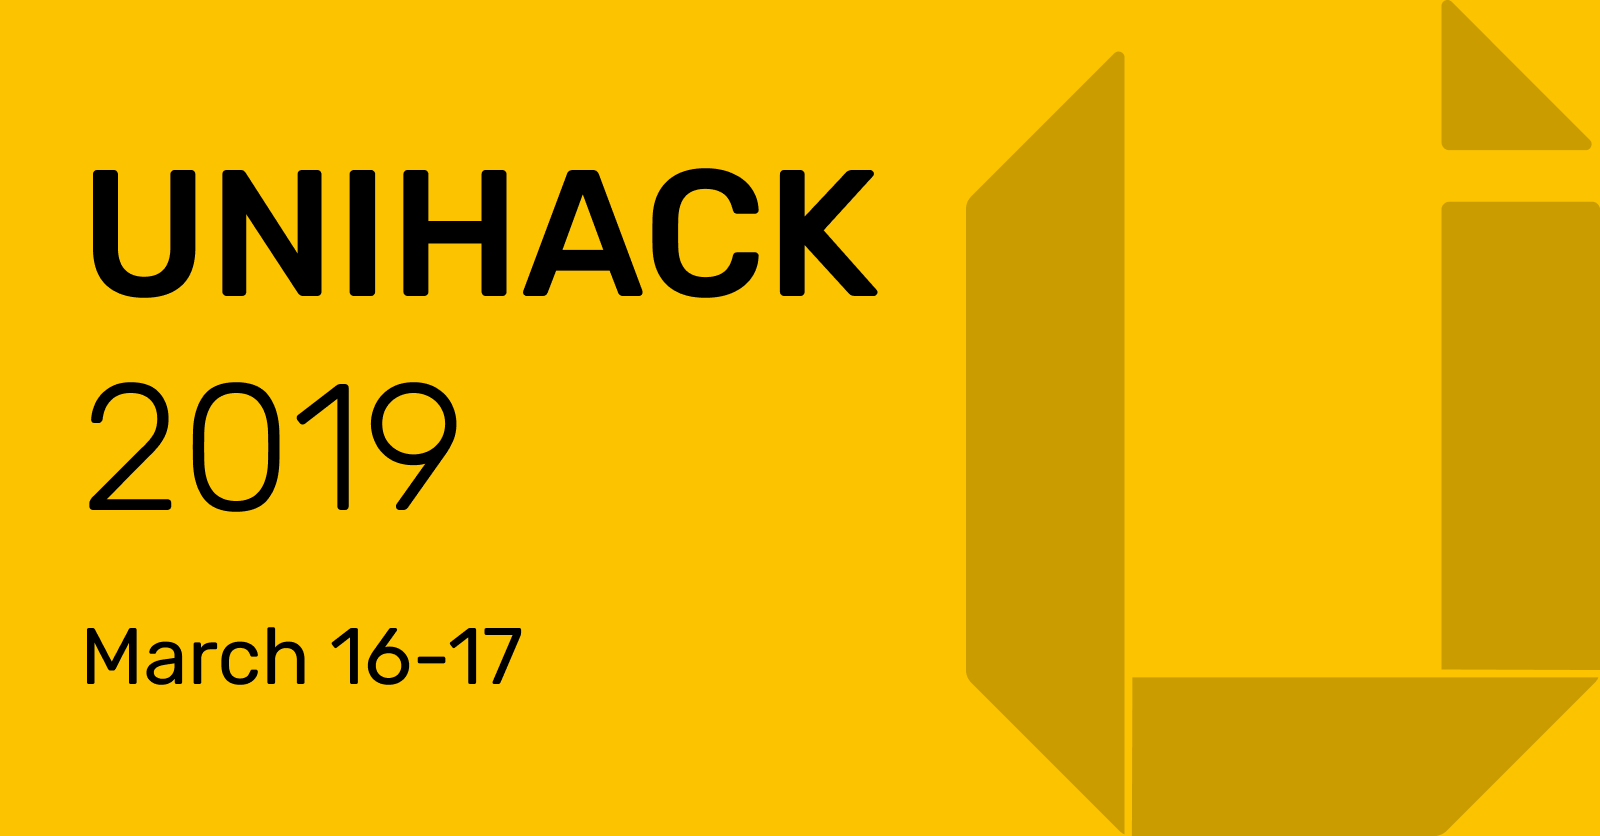
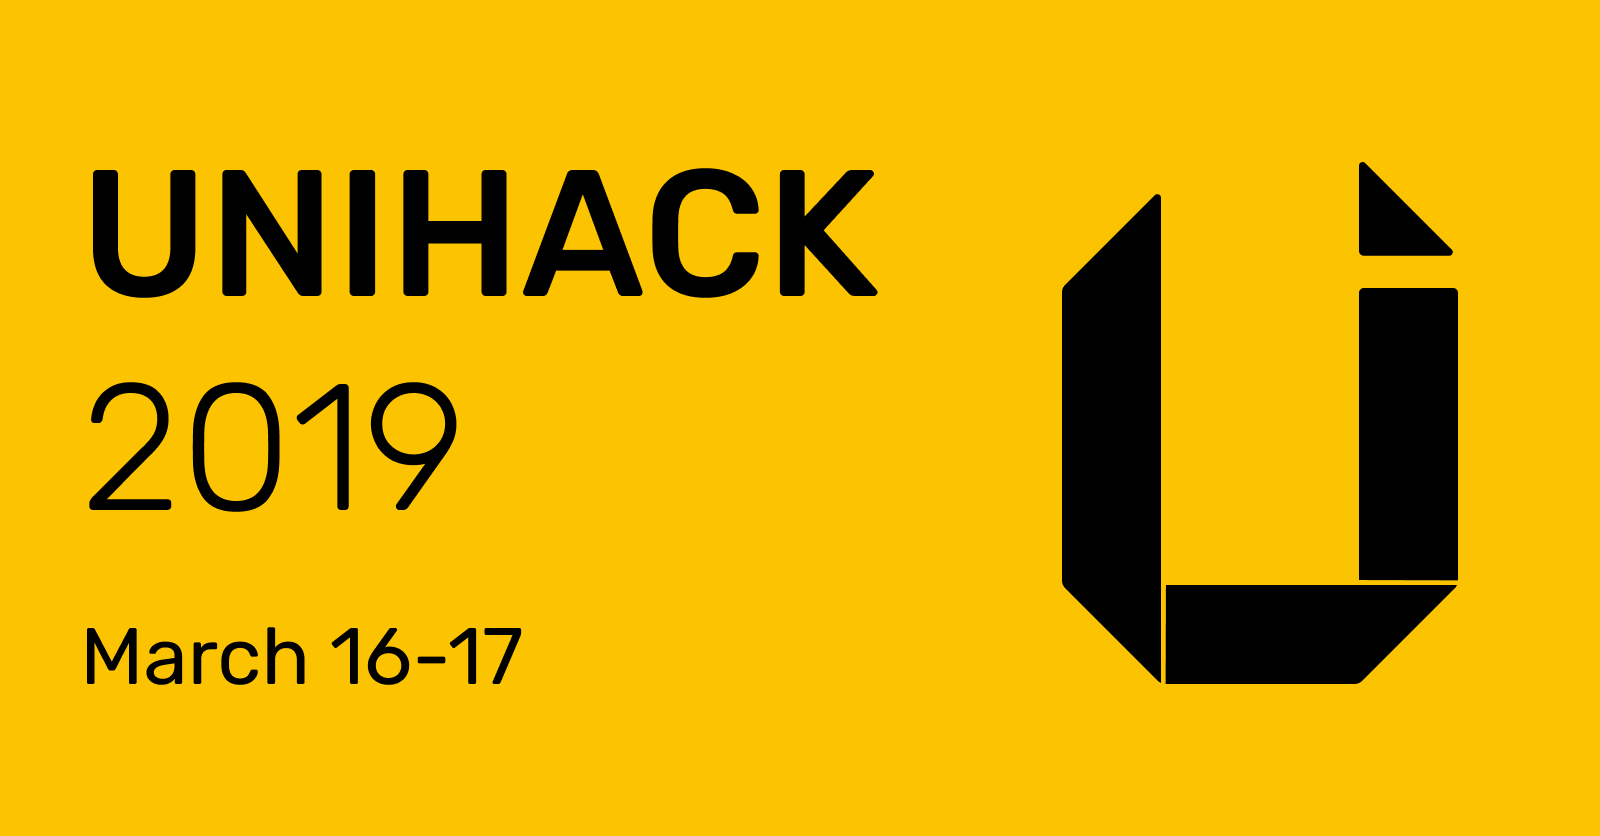
rewrote schedule indicator css, removed table, updated og image

Changed region(s): [[0.5938, 0.0622, 1.0, 1.0], [0.875, 0.0, 1.0, 0.1866]]

diff --git a/components/schedule/schedule-item/schedule-item.scss b/components/schedule/schedule-item/schedule-item.scss
@@ -7,8 +7,8 @@ $past-grey: #AFAFAF;
   display: flex;
   align-items: center;
   color: $past-grey;
-  padding: $base 0;
-  border-bottom: 1px solid $past-grey;
+  height: $base * 5;
+  border-bottom: 1px solid lighten($grey, 14%);
   position: relative;
 
   &.active {
@@ -20,68 +20,103 @@ $past-grey: #AFAFAF;
   }
 
   &.active, &.future {
-    .schedule-item-indicator {
+    .schedule-item-indicator-dot {
       border: 4px solid $yellow;
-    }
-
-    .schedule-item-indicator-line {
-      background: $yellow;
     }
   }
 
-  td {
-    padding: 0;
+  &.active {
+    .schedule-item-indicator-line {
+      background: $yellow;
+
+      &.head {
+        background: $past-grey;
+      }
+    }
+    + .active, + .future {
+      .schedule-item-indicator-line {
+        background-color: $yellow;
+      }
+    }
+  }
+
+  &.future {
+    .schedule-item-indicator-line.tail {
+      background-color: $yellow;
+    }
+
+    + .future {
+      .schedule-item-indicator-line {
+        background-color: $yellow;
+      }
+    }
   }
 
   &-indicator {
-    border-radius: 50%;
-    border: 4px solid $past-grey;
-    width: $base * 3;
-    height: $base * 3;
-    position: relative;
-    flex-shrink: 0;
+    display: flex;
+    flex-direction: column;
+    align-items: center;
+    height: 100%;
+
+    &-line {
+      width: 14px;
+      height: 100%;
+      margin: -2px 0;
+      background-color: $past-grey;
+      border-left: 4px solid $grey;
+      border-right: 4px solid $grey;
+    }
+
+    &-dot {
+      position: relative;
+      width: $base * 3;
+      height: $base * 3;
+      border-radius: 50%;
+      border: 4px solid $past-grey;
+      flex-shrink: 0;
+    }
     
     @include xsm {
       margin-right: $base;
     }
 
     @include sm {
+      margin-left: $base * 2;
       margin-right: $base * 3;
     }
   }
 
-  &-indicator-line {
-    position: absolute;
-    top: 31px;
-    left: 1px;
-    width: 14px;
-    height: 19px;
-    background: $past-grey;
-    z-index: 0;
-    margin: 0 4px;
-    border-left: 4px solid $grey;
-    border-right: 4px solid $grey;
+  &:first-of-type {
+    .schedule-item-indicator-line.head {
+      background-color: $grey;
+    }
   }
 
   &:last-of-type {
-    .schedule-item-indicator-line {
-      display: none;
+    .schedule-item-indicator-line.tail {
+      z-index: -1;
+      background-color: $grey;
     }
   }
 
   &-time {
     font-weight: 500;
     flex-shrink: 0;
+    padding: $base 0;
 
     @include xsm {
-      margin-right: $base;
+      padding-right: $base;
       flex-basis: 30%;
     }
 
     @include sm {
-      margin-right: $base * 3;
-      flex-basis: 20%;
+      padding-right: $base * 3;
+      flex-basis: 30%;
     }
   }
 
+  &-title {
+    padding: $base 0;
+    width: 100%;
+  }
 }

diff --git a/components/schedule/schedule.tsx b/components/schedule/schedule.tsx
@@ -8,14 +8,53 @@ type Props = {
   data: ScheduleItemI[]
 };
 
-class Schedule extends React.Component<Props> {
+type State = {
+  time: moment.Moment,
+  currentItem?: ScheduleItemI
+};
+
+class Schedule extends React.Component<Props, State> {
+  private interval!: NodeJS.Timeout;
+  private activeItem!: ScheduleItemI;
+
   constructor(props: Props) {
     super(props);
+    this.state = { time: moment() };
   }
 
-  private buildScheduleItems() {
+  private shouldUpdate() {
+    const now = moment();
+    const activeItem = this.activeItem;
+
+    if (activeItem) {
+      const endTime = this.convertTime(activeItem.endTime);
+      if (now > endTime) {
+        this.setState({ time: now });
+      }
+    } else {
+      this.setState({ time: now });
+    }
+  }
+
+  // Create an interval to check if the schedule should update
+  public componentDidMount() {
+    this.interval = setInterval(
+      () => this.shouldUpdate(),
+      60000
+    );
+  }
+  
+  public componentWillUnmount() {
+    clearInterval(this.interval);
+  }
+
+  private convertTime(time: string) {
+    return moment(time, 'YYYY-MM-DD HH:mm');
+  }
+
+  private buildScheduleItems(state: State) {
     return this.props.data.map((scheduleEvent) => {
-      const startTime = moment(scheduleEvent.startTime, 'YYYY-MM-DD HH:mm');
+      const startTime = this.convertTime(scheduleEvent.startTime);
 
       if (startTime.isValid()) {
         const scheduleItem: ScheduleItemI = {
@@ -23,14 +62,15 @@ class Schedule extends React.Component<Props> {
           startTime: startTime.format('h:mm a')
         };
 
-        const endTime = moment(scheduleEvent.endTime, 'YYYY-MM-DD HH:mm');
-        const now = moment();
+        const endTime = this.convertTime(scheduleEvent.endTime);
+        const now = state.time;
 
         let isActiveEvent = false, isFutureEvent = false;
 
         if (now < endTime) {
           if (now >= startTime) {
             isActiveEvent = true;
+            this.activeItem = scheduleItem;
           } else {
             isFutureEvent = true;
           }
@@ -38,24 +78,21 @@ class Schedule extends React.Component<Props> {
 
         return (
           <ScheduleItem
-            key={scheduleItem.startTime}
+            key={scheduleItem.startTime + scheduleItem.title}
             scheduleItem={scheduleItem}
             isActive={isActiveEvent}
             isFuture={isFutureEvent}
           />
         );
       }
-
     });
   }
 
   public render() {
     return (
-      <table className="schedule">
-        <tbody>
-          {this.buildScheduleItems()}
-        </tbody>
-      </table>
+      <div className="schedule">
+        {this.buildScheduleItems(this.state)}
+      </div>
     );
   }
 }

diff --git a/components/schedule/schedule-item/schedule-item.tsx b/components/schedule/schedule-item/schedule-item.tsx
@@ -12,12 +12,15 @@ const ScheduleItem = (props: Props) => {
   const futureClass = props.isFuture ? 'future' : '';
 
   return (
-    <tr className={`schedule-item ${activeClass} ${futureClass}`}>
-      <td className="schedule-item-indicator-line"/>
-      <td className="schedule-item-indicator"/>
-      <td className="schedule-item-time">{props.scheduleItem.startTime}</td>
-      <td className="schedule-item-title">{props.scheduleItem.title}</td>
-    </tr>
+    <div className={`schedule-item ${activeClass} ${futureClass}`}>
+      <div className="schedule-item-indicator">
+        <div className="schedule-item-indicator-line head"/>
+        <div className="schedule-item-indicator-dot"/>
+        <div className="schedule-item-indicator-line tail"/>
+      </div>
+      <div className="schedule-item-time">{props.scheduleItem.startTime}</div>
+      <div className="schedule-item-title">{props.scheduleItem.title}</div>
+    </div>
   );
 };
 

diff --git a/sections/hero/hero.tsx b/sections/hero/hero.tsx
@@ -1,6 +1,7 @@
 import './hero.scss';
 import Header from '../../components/header/header';
 import ButtonLink from '../../components/button-link/button-link';
+import Link from 'next/link';
 
 const Hero = () => (
   <section className="hero">
@@ -11,7 +12,12 @@ const Hero = () => (
           <span>UNIHACK</span>
           <span className="thin">2019</span>
         </h1>
-        <h2>March 16-17 @ Telstra Labs</h2>
+        <h2>
+          <span>March 16-17 @ </span>
+          <Link href="https://goo.gl/maps/HFZE9uN233q">
+            <a>Telstra Labs</a>
+          </Link>
+        </h2>
       </div>
       <ButtonLink href="https://www.facebook.com/events/742383822828074" type="secondary">Check out our event</ButtonLink>
     </div>

diff --git a/sections/melbourne-2019/event-schedule/event-schedule.tsx b/sections/melbourne-2019/event-schedule/event-schedule.tsx
@@ -57,9 +57,9 @@ class EventSchedule extends React.Component<Props, State> {
               </div>
               <Schedule data={this.state.events}/>
             </div>
-            <div className="schedule-map">
+            {/* <div className="schedule-map">
               <img src="/static/images/venue-map.png"/>
-            </div>
+            </div> */}
           </div>
         </div>
       </section>

diff --git a/sections/melbourne-2019/event-schedule/event-schedule.scss b/sections/melbourne-2019/event-schedule/event-schedule.scss
@@ -67,7 +67,7 @@
           background-color: transparent;
           border: none;
           color: $light_grey;
-          padding: 0 $base;
+          padding: 0 ($base * 2);
           -webkit-appearance: button;
           cursor: pointer;
           outline: none;

diff --git a/components/header/header.tsx b/components/header/header.tsx
@@ -27,7 +27,7 @@ const menuItems: MenuItemI[] = [
 ];
 
 class Header extends React.Component<Props, State> {
-  constructor(props: any) {
+  constructor(props: Props) {
     super(props);
     this.state = { isMenuOpen: false };
   }

diff --git a/sections/hero/hero.scss b/sections/hero/hero.scss
@@ -45,6 +45,11 @@
         font-weight: 400;
         margin-top: $base * 3;
       }
+
+      a {
+        @include link;
+        text-decoration: underline;
+      }
     }
   }
 }
